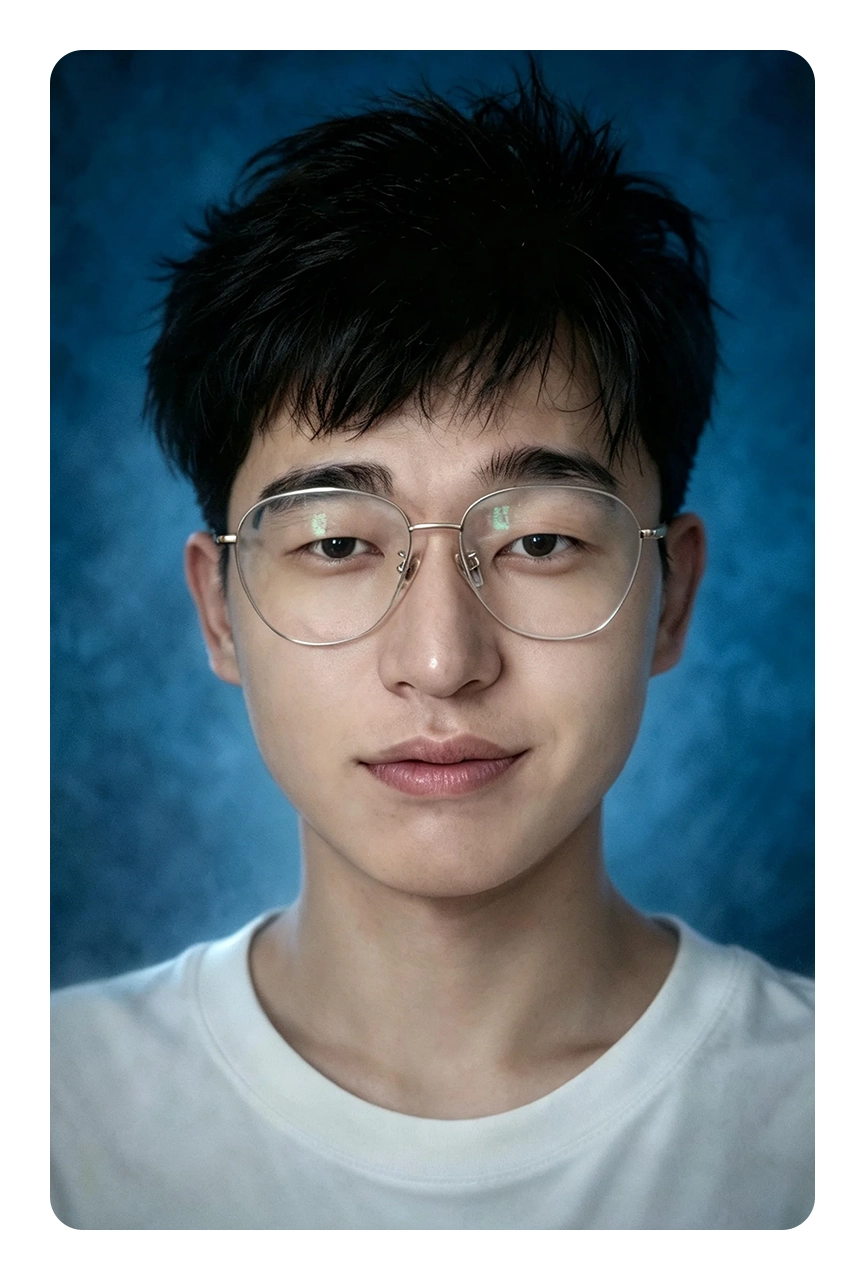
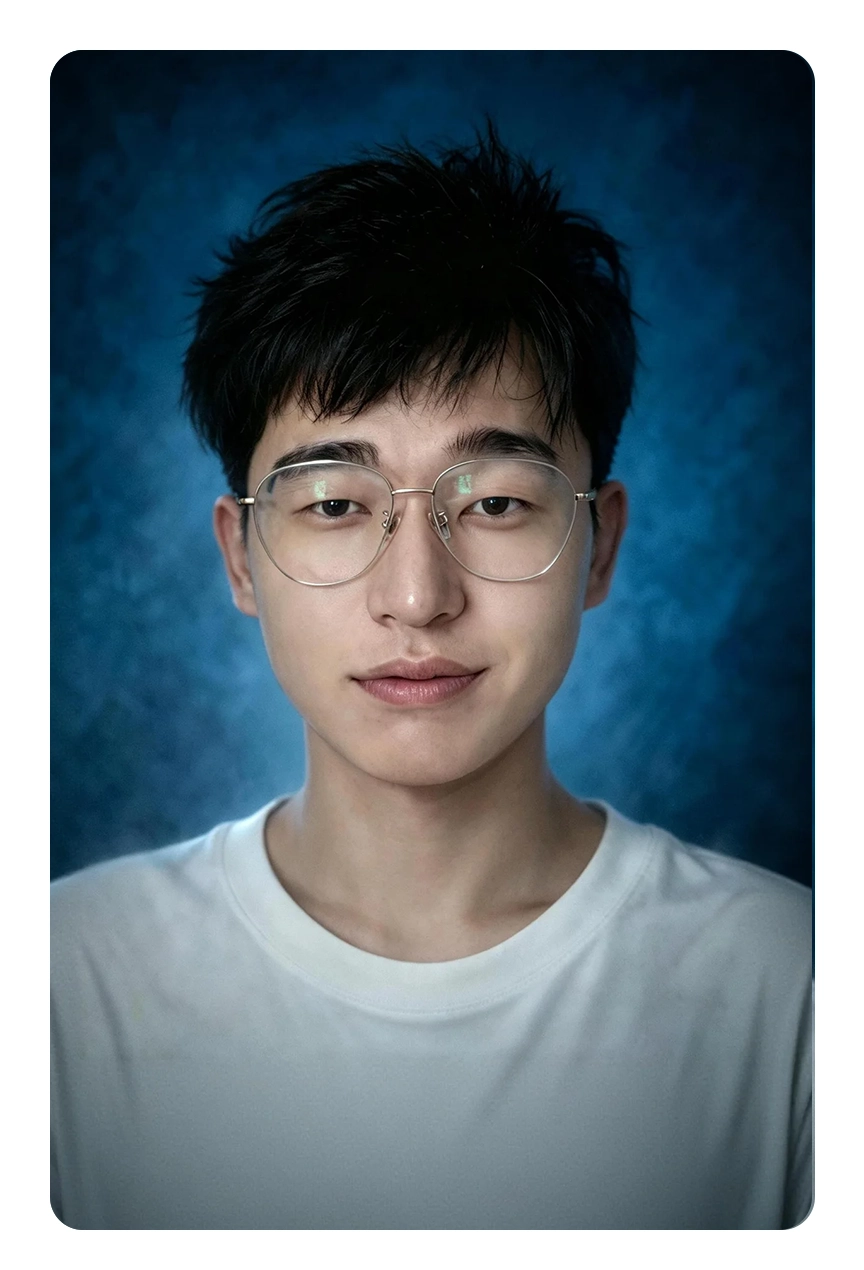
0.5
改圆角细节

diff --git a/src/hero.css b/src/hero.css
@@ -1,5 +1,5 @@
 /* Editorial cover layout for the opening viewport */
 .brand{display:flex;align-items:center;gap:8px;font-size:22px;font-weight:800;letter-spacing:-.08em}.brand i{display:block;width:27px;height:27px;border:2px solid #eeeef2;border-radius:50%;position:relative}.brand i:after{content:"";position:absolute;inset:5px;border:1px solid #eeeef2;border-radius:50%;border-left-color:transparent;transform:rotate(-36deg)}.brand span{font:8px "DM Mono";letter-spacing:.08em;color:#aaa9b0;margin-left:3px}.brand sup{font-size:7px;margin-left:0}
 .hero-video{opacity:.74;filter:saturate(1.14) contrast(1.08)}
-.hero-content{height:calc(100svh - 106px);min-height:654px;padding:0 0 58px;display:grid;grid-template-columns:1fr 1.15fr;grid-template-rows:1fr auto;position:relative}.hero-tag{grid-column:1;align-self:start;display:flex;gap:14px;padding-top:38px;font:9px "DM Mono";letter-spacing:.11em;line-height:1.55;color:#d5d4d9}.hero-tag span{color:#936eff}.hero-tag p{margin:0}.hero-title{grid-column:2;grid-row:1;align-self:end;justify-self:end;width:min-content;margin-bottom:44px;white-space:nowrap}.hero-title .eyebrow{margin:0 0 18px 8px}.hero h1{font-size:clamp(76px,8vw,154px);line-height:.82;letter-spacing:-.095em;margin:0;text-align:right;font-weight:800}.hero h1 span,.hero h1 em{display:block}.hero h1 span{color:#f5f4f2}.hero h1 .hero-english{font-size:.53em;letter-spacing:-.075em;line-height:.95}.hero h1 em{font-family:"Noto Serif SC",serif;font-size:1.05em;font-weight:600;font-style:normal;color:transparent;-webkit-text-stroke:1px rgba(243,240,246,.88);text-shadow:7px 7px 0 rgba(108,60,255,.62)}.hero-bottom{grid-column:1 / -1;grid-row:2;display:flex;justify-content:space-between;align-items:flex-end;border-top:1px solid rgba(255,255,255,.26);padding-top:22px}.hero-bottom p{font-size:12px;line-height:1.8;color:#cac9cf;margin:0}.round-button{height:118px;width:118px}
+.hero-content{height:calc(100svh - 106px);min-height:654px;padding:0 0 58px;display:grid;grid-template-columns:1fr 1.15fr;grid-template-rows:1fr auto;position:relative}.hero-tag{grid-column:1;align-self:start;display:flex;gap:14px;padding-top:38px;font:9px "DM Mono";letter-spacing:.11em;line-height:1.55;color:#d5d4d9}.hero-tag span{color:rgb(213,212,217)}.hero-tag p{margin:0}.hero-title{grid-column:2;grid-row:1;align-self:end;justify-self:end;width:min-content;margin-bottom:44px;white-space:nowrap}.hero-title .eyebrow{margin:0 0 18px 8px}.hero h1{font-size:clamp(76px,8vw,154px);line-height:.82;letter-spacing:-.095em;margin:0;text-align:right;font-weight:800}.hero h1 span,.hero h1 em{display:block}.hero h1 span{color:#f5f4f2}.hero h1 .hero-english{font-size:.53em;letter-spacing:-.075em;line-height:.95}.hero h1 em{font-family:"Noto Serif SC",serif;font-size:1.05em;font-weight:600;font-style:normal;color:transparent;-webkit-text-stroke:1px rgba(243,240,246,.88);text-shadow:7px 7px 0 rgba(108,60,255,.62)}.hero-bottom{grid-column:1 / -1;grid-row:2;display:flex;justify-content:space-between;align-items:flex-end;border-top:1px solid rgba(255,255,255,.26);padding-top:22px}.hero-bottom p{font-size:12px;line-height:1.8;color:#cac9cf;margin:0}.round-button{height:118px;width:118px}
 @media(max-width:900px){.hero-content{display:flex;height:calc(100svh - 106px);min-height:654px;flex-direction:column;padding-bottom:42px}.hero-tag{padding-top:38px}.hero-title{align-self:flex-end;margin-top:auto;margin-bottom:40px}.hero h1{font-size:clamp(63px,15vw,115px)}.hero-bottom{width:100%;padding-top:18px}.hero-bottom p{font-size:10px}.round-button{height:84px;width:84px;font-size:7px}}

diff --git a/src/about.css b/src/about.css
@@ -15,7 +15,7 @@
 .about:after{opacity:.18}
 .about-layout{grid-template-columns:minmax(450px,.78fr) minmax(0,1.22fr);gap:clamp(100px,11vw,210px);padding-top:88px;align-items:start}
 .profile-card{min-height:854px}.profile-card:before{width:80%}.profile-photo{width:80%;background:linear-gradient(135deg,#d7eced,#f8ffff 46%,#e3f0f4)}.profile-info{left:57%;top:690px}.profile-skills{top:792px}.profile-skills p{color:#e0d9eb;line-height:1.9}
-.experience{padding-left:4px}.experience-heading{padding-bottom:48px}.experience-heading .section-label{display:none}.experience-heading h2{margin:0;font-size:clamp(70px,6.15vw,116px);line-height:.79}.experience-heading h2 em{font-size:clamp(24px,2vw,34px);font-weight:600}.job{margin-bottom:42px}.job p{color:#d6cfdf}.about .stats{margin-top:26px;gap:34px}.about .stats>div{transition:transform .3s ease,border-color .3s ease,background .3s ease}.about .stats>div:hover{transform:translateY(-7px);border-color:#be99ff;background:linear-gradient(135deg,rgba(178,111,255,.26),rgba(23,13,55,.28))}
+.experience{padding-left:4px}.experience-heading{padding-bottom:48px}.experience-heading .section-label{display:none}.experience-heading h2{margin:0;font-size:clamp(70px,6.15vw,116px);line-height:.79}.experience-heading h2 em{font-size:clamp(24px,2vw,34px);font-weight:600}.job{margin-bottom:42px}.job p{color:#d6cfdf}.about .stats{margin-top:26px;gap:34px}.about .stats>div{border-radius:22px;transition:transform .3s ease,border-color .3s ease,background .3s ease}.about .stats>div:hover{transform:translateY(-7px);border-color:#be99ff;background:linear-gradient(135deg,rgba(178,111,255,.26),rgba(23,13,55,.28))}
 @keyframes about-reference-flow{0%{transform:translate3d(-3%,-2%,0) scale(1.04)}100%{transform:translate3d(3%,4%,0) scale(1.1)}}
 @media(max-width:1100px){.about-layout{grid-template-columns:1fr;gap:76px}.profile-card{max-width:600px;min-height:800px}.profile-info{left:52%;top:690px}.about .stats{margin-top:55px}.experience-heading h2{font-size:82px}}
 @media(max-width:650px){.about{padding-bottom:60px}.about-layout{padding-top:55px}.profile-card{min-height:704px}.profile-info{top:582px;left:0}.profile-skills{display:none}.experience-heading h2{font-size:57px}.about .stats{grid-template-columns:1fr;gap:12px}}

diff --git a/src/overrides.css b/src/overrides.css
@@ -1,5 +1,5 @@
 /* Refinements requested during visual review */
-.profile-name b{border-radius:6px}
+.profile-name b{border-radius:22px}
 .catalog-art{display:block}
 .preview-rail{padding-bottom:0;scrollbar-width:none;scroll-behavior:auto;cursor:default}
 .preview-rail::-webkit-scrollbar{display:none}
